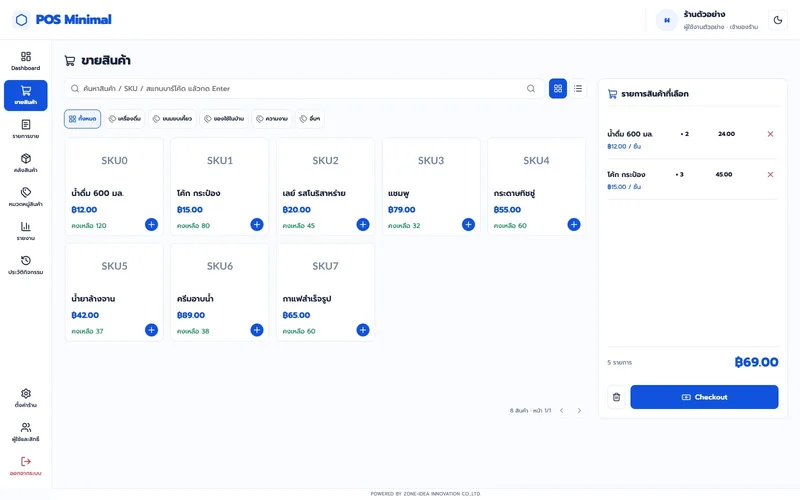
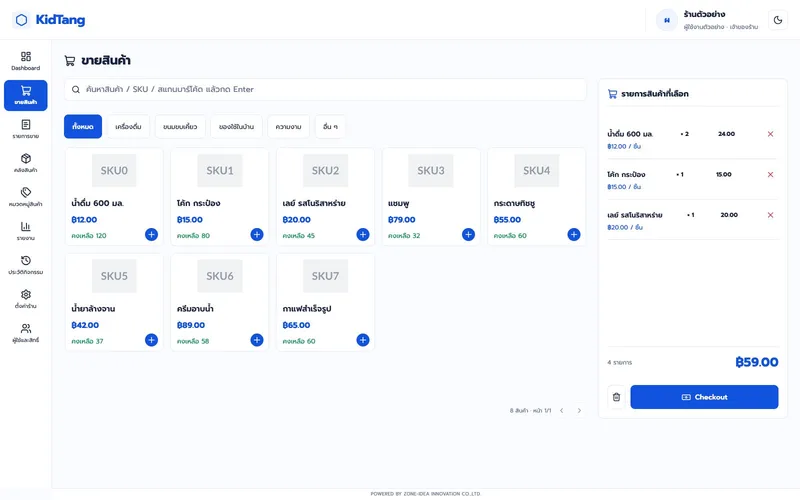
feat(branding): rename application and SEO metadata to KidTang

diff --git a/apps/web/src/features/printing/PrinterSettings.tsx b/apps/web/src/features/printing/PrinterSettings.tsx
@@ -8,5 +8,5 @@ import {agentDownloads,agentPrinters,agentPrint,pairPrinter,printerProfile,saveP
 export function PrinterSettings(){
  const [profile,setProfile]=useState(printerProfile),[code,setCode]=useState(''),[printers,setPrinters]=useState<Awaited<ReturnType<typeof agentPrinters>>>([]),[printer,setPrinter]=useState(profile?.printer??''),[width,setWidth]=useState<58|80>(profile?.width??80),[busy,setBusy]=useState(false),[message,setMessage]=useActionSuccess(),[error,setError]=useActionError();
  const run=async(action:()=>Promise<void>)=>{setBusy(true);setError('');setMessage('');try{await action();}catch(e){setError(e instanceof Error?e.message:'ดำเนินการไม่สำเร็จ');}finally{setBusy(false);}};
- return <section className="printer-settings" aria-labelledby="printer-settings-title"><h2 id="printer-settings-title"><Printer size={22}/>ตั้งค่าเครื่องพิมพ์</h2><p className="hint">ติดตั้ง Agent บนเครื่องนี้ แล้วเปิดโปรแกรมเพื่อดูรหัสจับคู่ · การตั้งค่านี้ใช้เฉพาะ Browser นี้</p><div className="printer-downloads">{agentDownloads.map(item=><a className="secondary" key={item.file} href={item.url}><Download size={18}/>{item.label}</a>)}</div><p className="hint">ไฟล์ติดตั้งรุ่นทดสอบยังไม่ได้เซ็นรับรองจากผู้พัฒนา · ต้องติดตั้งไดรเวอร์เครื่องพิมพ์ก่อน</p>{error?<Notice>{error}</Notice>:null}{message?<Notice success>{message}</Notice>:null}<p role="status">{profile?'จับคู่แล้ว · กดตรวจสอบเพื่อดูเครื่องพิมพ์ที่พร้อมใช้':'ยังไม่ได้จับคู่ Print Agent'}</p><div className="printer-controls"><label className="field"><span>รหัสจับคู่ 6 หลัก</span><div className="input-wrap"><input aria-label="รหัสจับคู่ 6 หลัก" inputMode="numeric" maxLength={6} value={code} onChange={e=>setCode(e.target.value.replace(/\D/g,''))}/></div></label><button className="secondary" disabled={busy||code.length!==6} onClick={()=>run(async()=>{const {token}=await pairPrinter(code),next={token,printer:'',width};savePrinterProfile(next);setProfile(next);setPrinter('');setCode('');setPrinters(await agentPrinters(token));setMessage('จับคู่ Agent สำเร็จ');})}><Link size={18}/>จับคู่ Agent</button><button className="secondary" disabled={busy||!profile} onClick={()=>run(async()=>{setPrinters(await agentPrinters(profile!.token));setMessage('Agent พร้อมเชื่อมต่อ');})}>ตรวจสอบการเชื่อมต่อ</button></div><div className="printer-controls"><label className="field"><span>เครื่องพิมพ์</span><div className="input-wrap"><select aria-label="เครื่องพิมพ์" value={printer} onChange={e=>setPrinter(e.target.value)}><option value="">ใช้เครื่อง default ของระบบ</option>{printer&&!printers.some(p=>p.name===printer)?<option value={printer}>{printer} (ยังไม่ตรวจสอบ)</option>:null}{printers.map(p=><option key={p.name} value={p.name}>{p.displayName||p.name}{p.isDefault?' · default':''}</option>)}</select></div></label><label className="field"><span>ขนาดกระดาษ</span><div className="input-wrap"><select aria-label="ขนาดกระดาษ" value={width} onChange={e=>setWidth(Number(e.target.value) as 58|80)}><option value={58}>58 มม.</option><option value={80}>80 มม.</option></select></div></label></div><div className="printer-controls"><button className="primary" disabled={busy||!profile} onClick={()=>run(async()=>{if(!await confirmAlert('ยืนยันเปลี่ยนการตั้งค่าเครื่องพิมพ์หรือไม่?'))return;const next={token:profile!.token,printer,width};savePrinterProfile(next);setProfile(next);setMessage('บันทึกเครื่องพิมพ์แล้ว');})}><Save size={18}/>บันทึกเครื่องพิมพ์</button><button className="secondary" disabled={busy||!profile} onClick={()=>run(async()=>{await agentPrint('<!doctype html><html lang="th"><head><meta charset="utf-8"><style>@page{size:80mm auto;margin:4mm}body{width:72mm;font:14px sans-serif}</style></head><body><h2>POS Minimal</h2><p>ทดสอบเครื่องพิมพ์</p><p>ภาษาไทย · 1234567890</p><p>ไม่ใช่ใบเสร็จการขาย</p></body></html>',{token:profile!.token,printer,width});setMessage('ส่งงานทดสอบเข้าคิวเครื่องพิมพ์แล้ว กรุณาตรวจใบพิมพ์');})}><Printer size={18}/>พิมพ์ทดสอบ</button><button className="secondary" disabled={busy||!profile} onClick={async()=>{if(!await confirmAlert('ยืนยันเลิกใช้ Print Agent บน Browser นี้หรือไม่?'))return;disconnectPrinter();setProfile(null);setPrinters([]);setMessage('ยกเลิกการจับคู่ใน Browser นี้แล้ว');}}><Unplug size={18}/>เลิกใช้ Agent</button></div></section>;
+ return <section className="printer-settings" aria-labelledby="printer-settings-title"><h2 id="printer-settings-title"><Printer size={22}/>ตั้งค่าเครื่องพิมพ์</h2><p className="hint">ติดตั้ง Agent บนเครื่องนี้ แล้วเปิดโปรแกรมเพื่อดูรหัสจับคู่ · การตั้งค่านี้ใช้เฉพาะ Browser นี้</p><div className="printer-downloads">{agentDownloads.map(item=><a className="secondary" key={item.file} href={item.url}><Download size={18}/>{item.label}</a>)}</div><p className="hint">ไฟล์ติดตั้งรุ่นทดสอบยังไม่ได้เซ็นรับรองจากผู้พัฒนา · ต้องติดตั้งไดรเวอร์เครื่องพิมพ์ก่อน</p>{error?<Notice>{error}</Notice>:null}{message?<Notice success>{message}</Notice>:null}<p role="status">{profile?'จับคู่แล้ว · กดตรวจสอบเพื่อดูเครื่องพิมพ์ที่พร้อมใช้':'ยังไม่ได้จับคู่ Print Agent'}</p><div className="printer-controls"><label className="field"><span>รหัสจับคู่ 6 หลัก</span><div className="input-wrap"><input aria-label="รหัสจับคู่ 6 หลัก" inputMode="numeric" maxLength={6} value={code} onChange={e=>setCode(e.target.value.replace(/\D/g,''))}/></div></label><button className="secondary" disabled={busy||code.length!==6} onClick={()=>run(async()=>{const {token}=await pairPrinter(code),next={token,printer:'',width};savePrinterProfile(next);setProfile(next);setPrinter('');setCode('');setPrinters(await agentPrinters(token));setMessage('จับคู่ Agent สำเร็จ');})}><Link size={18}/>จับคู่ Agent</button><button className="secondary" disabled={busy||!profile} onClick={()=>run(async()=>{setPrinters(await agentPrinters(profile!.token));setMessage('Agent พร้อมเชื่อมต่อ');})}>ตรวจสอบการเชื่อมต่อ</button></div><div className="printer-controls"><label className="field"><span>เครื่องพิมพ์</span><div className="input-wrap"><select aria-label="เครื่องพิมพ์" value={printer} onChange={e=>setPrinter(e.target.value)}><option value="">ใช้เครื่อง default ของระบบ</option>{printer&&!printers.some(p=>p.name===printer)?<option value={printer}>{printer} (ยังไม่ตรวจสอบ)</option>:null}{printers.map(p=><option key={p.name} value={p.name}>{p.displayName||p.name}{p.isDefault?' · default':''}</option>)}</select></div></label><label className="field"><span>ขนาดกระดาษ</span><div className="input-wrap"><select aria-label="ขนาดกระดาษ" value={width} onChange={e=>setWidth(Number(e.target.value) as 58|80)}><option value={58}>58 มม.</option><option value={80}>80 มม.</option></select></div></label></div><div className="printer-controls"><button className="primary" disabled={busy||!profile} onClick={()=>run(async()=>{if(!await confirmAlert('ยืนยันเปลี่ยนการตั้งค่าเครื่องพิมพ์หรือไม่?'))return;const next={token:profile!.token,printer,width};savePrinterProfile(next);setProfile(next);setMessage('บันทึกเครื่องพิมพ์แล้ว');})}><Save size={18}/>บันทึกเครื่องพิมพ์</button><button className="secondary" disabled={busy||!profile} onClick={()=>run(async()=>{await agentPrint('<!doctype html><html lang="th"><head><meta charset="utf-8"><style>@page{size:80mm auto;margin:4mm}body{width:72mm;font:14px sans-serif}</style></head><body><h2>KidTang</h2><p>ทดสอบเครื่องพิมพ์</p><p>ภาษาไทย · 1234567890</p><p>ไม่ใช่ใบเสร็จการขาย</p></body></html>',{token:profile!.token,printer,width});setMessage('ส่งงานทดสอบเข้าคิวเครื่องพิมพ์แล้ว กรุณาตรวจใบพิมพ์');})}><Printer size={18}/>พิมพ์ทดสอบ</button><button className="secondary" disabled={busy||!profile} onClick={async()=>{if(!await confirmAlert('ยืนยันเลิกใช้ Print Agent บน Browser นี้หรือไม่?'))return;disconnectPrinter();setProfile(null);setPrinters([]);setMessage('ยกเลิกการจับคู่ใน Browser นี้แล้ว');}}><Unplug size={18}/>เลิกใช้ Agent</button></div></section>;
 }

diff --git a/apps/api/src/modules/reports/export.ts b/apps/api/src/modules/reports/export.ts
@@ -2,7 +2,7 @@ import ExcelJS from 'exceljs';
 import { ApiError } from '../../infra/errors.js';
 import type { ReportData,ReportQuery } from './schema.js';
 export function excelText(value:string){return /^[\s]*[=+\-@]|^[\t\r\n]/.test(value)?`'${value}`:value;}
-export async function reportWorkbook(report:ReportData,query:ReportQuery){if(report.total>10000)throw new ApiError(422,'EXPORT_LIMIT_EXCEEDED','ส่งออกได้ไม่เกิน 10,000 รายการ กรุณาลดช่วงวันที่');const workbook=new ExcelJS.Workbook();workbook.creator='POS Minimal';const sheet=workbook.addWorksheet('Report');sheet.addRow(['POS Minimal',({sales:'รายงานยอดขาย',inventory:'รายงานคลังสินค้า','low-stock':'รายงานสินค้าใกล้หมด','stock-valuation':'รายงานมูลค่าสต็อก'})[report.type]]);sheet.addRow(report.type==='sales'?['เวลา','Asia/Bangkok','เริ่ม',query.from??'วันนี้','สิ้นสุด (รวมวัน)',query.to??'วันนี้','กลุ่ม',query.groupBy,'พนักงาน',query.cashierId??'ทั้งหมด']:['เวลา','Asia/Bangkok','ข้อมูลคลัง','ปัจจุบัน ณ เวลาส่งออก']);sheet.addRow(['ข้อมูลยอดขายใช้ Snapshot ณ เวลาขาย; มูลค่าสต็อกใช้ต้นทุนปัจจุบัน; ยอดเงินเป็นข้อความทศนิยมเพื่อรักษาความแม่นยำ']);sheet.addRow([]);sheet.addRow(['สรุป',...(report.type==='sales'?['ยอดก่อนส่วนลด (สำเร็จ)','ส่วนลด','ยอดสุทธิ (สำเร็จ)','VAT','บิลสำเร็จ','บิลยกเลิก','มูลค่าบิลยกเลิก']:['สินค้า','จำนวนคงเหลือ','มูลค่าสต็อก'])]);sheet.addRow(['รวม',...Object.values(report.summary)]);sheet.addRow([]);
+export async function reportWorkbook(report:ReportData,query:ReportQuery){if(report.total>10000)throw new ApiError(422,'EXPORT_LIMIT_EXCEEDED','ส่งออกได้ไม่เกิน 10,000 รายการ กรุณาลดช่วงวันที่');const workbook=new ExcelJS.Workbook();workbook.creator='KidTang';const sheet=workbook.addWorksheet('Report');sheet.addRow(['KidTang',({sales:'รายงานยอดขาย',inventory:'รายงานคลังสินค้า','low-stock':'รายงานสินค้าใกล้หมด','stock-valuation':'รายงานมูลค่าสต็อก'})[report.type]]);sheet.addRow(report.type==='sales'?['เวลา','Asia/Bangkok','เริ่ม',query.from??'วันนี้','สิ้นสุด (รวมวัน)',query.to??'วันนี้','กลุ่ม',query.groupBy,'พนักงาน',query.cashierId??'ทั้งหมด']:['เวลา','Asia/Bangkok','ข้อมูลคลัง','ปัจจุบัน ณ เวลาส่งออก']);sheet.addRow(['ข้อมูลยอดขายใช้ Snapshot ณ เวลาขาย; มูลค่าสต็อกใช้ต้นทุนปัจจุบัน; ยอดเงินเป็นข้อความทศนิยมเพื่อรักษาความแม่นยำ']);sheet.addRow([]);sheet.addRow(['สรุป',...(report.type==='sales'?['ยอดก่อนส่วนลด (สำเร็จ)','ส่วนลด','ยอดสุทธิ (สำเร็จ)','VAT','บิลสำเร็จ','บิลยกเลิก','มูลค่าบิลยกเลิก']:['สินค้า','จำนวนคงเหลือ','มูลค่าสต็อก'])]);sheet.addRow(['รวม',...Object.values(report.summary)]);sheet.addRow([]);
  const fields=report.type==='sales'?['period','gross','discount','net','vat','billCount','voidCount','voidAmount']:['barcode','name','quantity','unitCost','salePrice','valuation'];
  const headers=report.type==='sales'?['ช่วงเวลา','ยอดก่อนส่วนลด (สำเร็จ)','ส่วนลด (สำเร็จ)','ยอดสุทธิ (สำเร็จ)','VAT (สำเร็จ)','บิลสำเร็จ','บิลยกเลิก','มูลค่าบิลยกเลิก']:['บาร์โค้ด','สินค้า','จำนวน','ต้นทุนปัจจุบัน','ราคาขาย','มูลค่าสต็อก'];sheet.addRow(headers);
  for(const item of report.items){const row=item as unknown as Record<string,string|number>;sheet.addRow(fields.map(field=>typeof row[field]==='string'?excelText(row[field] as string):row[field]));}

diff --git a/apps/web/src/features/landing/content.ts b/apps/web/src/features/landing/content.ts
@@ -1,7 +1,7 @@
-export const landingTitle='POS Minimal | ระบบขายหน้าร้านฟรี จัดการสต็อก รับพร้อมเพย์';
-export const landingDescription='POS Minimal ระบบขายหน้าร้านใช้ฟรีทุกฟังก์ชัน แค่มีโน้ตบุ๊กหรือ PC เพิ่มสินค้าก็เริ่มขายได้ จัดการสต็อก ดูยอดขาย รับพร้อมเพย์พร้อมยืนยันการจ่ายจากธนาคาร';
+export const landingTitle='KidTang | ระบบ POS ฟรี ขายหน้าร้าน จัดการสต็อกและยอดขาย';
+export const landingDescription='KidTang ระบบ POS และขายหน้าร้านฟรี ใช้งานผ่านเว็บ จัดการสินค้าและสต็อก บันทึกการขาย ดูรายงานยอดขาย และจัดการพนักงานในระบบเดียว';
 export const siteUrl='https://pos-minimals.vercel.app/';
-export const shareImage=siteUrl+'images/pos-minimal-share.webp';
+export const shareImage=siteUrl+'images/kidtang-share.webp';
 export const withdrawalNotice='การแจ้งเบิกเงินในระบบยังไม่เปิดใช้งาน';
 export const faqItems=[
  {question:'ใช้งานฟรีอะไรบ้าง?',answer:'ใช้ฟังก์ชันของระบบขายหน้าร้านฟรี ทั้งการขาย จัดการสินค้าและสต็อก รายงานยอดขาย และจัดการพนักงาน การรับชำระพร้อมเพย์มีค่าธรรมเนียมแยกจากค่าใช้ระบบ'},
@@ -13,7 +13,7 @@ export const faqItems=[
 ];
 export const structuredData={
  '@context':'https://schema.org','@graph':[
-  {'@type':'WebSite','@id':siteUrl+'#website',name:'POS Minimal',url:siteUrl,inLanguage:'th'},
-  {'@type':'SoftwareApplication',name:'POS Minimal',url:siteUrl,applicationCategory:'BusinessApplication',operatingSystem:'Web',inLanguage:'th',image:shareImage,description:landingDescription+' ค่าใช้ระบบฟรี ค่ารับชำระพร้อมเพย์ 1.50% ต่อรายการ อัตราถอนเงิน 15 บาทต่อครั้ง การแจ้งเบิกเงินในระบบยังไม่เปิดใช้งาน',offers:{'@type':'Offer',price:'0',priceCurrency:'THB',description:'ค่าใช้งานระบบฟรีทุกฟังก์ชัน ค่าธรรมเนียมรับชำระและถอนเงินแยกต่างหาก; การแจ้งเบิกเงินในระบบยังไม่เปิดใช้งาน'}},
+  {'@type':'WebSite','@id':siteUrl+'#website',name:'KidTang',url:siteUrl,inLanguage:'th'},
+  {'@type':'SoftwareApplication',name:'KidTang',url:siteUrl,applicationCategory:'BusinessApplication',operatingSystem:'Web',inLanguage:'th',image:shareImage,description:landingDescription+' ค่าใช้ระบบฟรี ค่ารับชำระพร้อมเพย์ 1.50% ต่อรายการ อัตราถอนเงิน 15 บาทต่อครั้ง การแจ้งเบิกเงินในระบบยังไม่เปิดใช้งาน',offers:{'@type':'Offer',price:'0',priceCurrency:'THB',description:'ค่าใช้งานระบบฟรีทุกฟังก์ชัน ค่าธรรมเนียมรับชำระและถอนเงินแยกต่างหาก; การแจ้งเบิกเงินในระบบยังไม่เปิดใช้งาน'}},
  ],
 };

diff --git a/apps/web/src/features/auth/VerificationNotice.tsx b/apps/web/src/features/auth/VerificationNotice.tsx
@@ -7,5 +7,5 @@ import { Busy, Notice } from '../../components/Notice';
 export function VerificationNotice({ email }: { email: string }) {
  const [seconds,setSeconds]=useState(60),[busy,setBusy]=useState(false),[error,setError]=useActionError(),[resent,setResent]=useState(false);
  useEffect(()=>{if(seconds<=0)return;const timer=window.setTimeout(()=>setSeconds(v=>v-1),1000);return()=>clearTimeout(timer);},[seconds]);
- return <section className="verification" aria-labelledby="verification-title"><div className="verification-icon"><MailCheck size={32} aria-hidden="true"/></div><p className="verification-brand">POS Minimal</p><h2 id="verification-title">ตรวจสอบอีเมลของคุณ</h2><p>ส่งขั้นตอนยืนยันอีเมลไปที่</p><strong className="verification-email">{email}</strong><p>เปิดอีเมลจาก POS Minimal แล้วกดปุ่ม <strong>Confirm email</strong> เพื่อยืนยันบัญชีและสร้างร้านให้เสร็จ</p><div className="verification-tip"><ShieldCheck size={20} aria-hidden="true"/><span>หากไม่พบอีเมล ลองตรวจสอบโฟลเดอร์สแปมหรือจดหมายขยะ</span></div>{error?<Notice>{error}</Notice>:null}{resent?<Notice success>ขอส่งอีเมลยืนยันอีกครั้งแล้ว กรุณาตรวจสอบกล่องจดหมาย</Notice>:null}<button type="button" className="secondary retry" disabled={busy||seconds>0} onClick={async()=>{setBusy(true);setError('');setResent(false);try{const {error}=await auth.auth.resend({type:'signup',email,options:{emailRedirectTo:window.location.origin}});if(error)throw error;await successAlert('ส่งคำขอยืนยันอีเมลแล้ว');setResent(true);setSeconds(60);}catch(error){setError(authMessage(error));}finally{setBusy(false);}}}>{busy?<Busy/>:<Send size={18} aria-hidden="true"/>}{seconds>0?`ส่งอีเมลอีกครั้งใน ${seconds} วินาที`:'ส่งอีเมลยืนยันอีกครั้ง'}</button></section>;
+ return <section className="verification" aria-labelledby="verification-title"><div className="verification-icon"><MailCheck size={32} aria-hidden="true"/></div><p className="verification-brand">KidTang</p><h2 id="verification-title">ตรวจสอบอีเมลของคุณ</h2><p>ส่งขั้นตอนยืนยันอีเมลไปที่</p><strong className="verification-email">{email}</strong><p>เปิดอีเมลจาก KidTang แล้วกดปุ่ม <strong>Confirm email</strong> เพื่อยืนยันบัญชีและสร้างร้านให้เสร็จ</p><div className="verification-tip"><ShieldCheck size={20} aria-hidden="true"/><span>หากไม่พบอีเมล ลองตรวจสอบโฟลเดอร์สแปมหรือจดหมายขยะ</span></div>{error?<Notice>{error}</Notice>:null}{resent?<Notice success>ขอส่งอีเมลยืนยันอีกครั้งแล้ว กรุณาตรวจสอบกล่องจดหมาย</Notice>:null}<button type="button" className="secondary retry" disabled={busy||seconds>0} onClick={async()=>{setBusy(true);setError('');setResent(false);try{const {error}=await auth.auth.resend({type:'signup',email,options:{emailRedirectTo:window.location.origin}});if(error)throw error;await successAlert('ส่งคำขอยืนยันอีเมลแล้ว');setResent(true);setSeconds(60);}catch(error){setError(authMessage(error));}finally{setBusy(false);}}}>{busy?<Busy/>:<Send size={18} aria-hidden="true"/>}{seconds>0?`ส่งอีเมลอีกครั้งใน ${seconds} วินาที`:'ส่งอีเมลยืนยันอีกครั้ง'}</button></section>;
 }

diff --git a/apps/web/src/features/landing/ProductTour.tsx b/apps/web/src/features/landing/ProductTour.tsx
@@ -1,2 +1,2 @@
 import {ProductScreenshot} from './ProductScreenshot';
-export function ProductTour(){return <section id="features" className="landing-tour" aria-labelledby="features-title"><div className="landing-container"><div className="landing-section-heading"><h2 id="features-title">เพิ่มสินค้า เลือกขาย รับเงินได้เลย</h2><p>หน้าขาย สินค้า และรายงานยอดขาย อยู่ในระบบเดียวกัน</p></div><ProductScreenshot large name="sales" alt="หน้าขาย POS Minimal แสดงรายการสินค้า ตะกร้า และยอดชำระ"/><article className="landing-tour-row"><div><h3>ดูสินค้าและ<br/><em>จำนวนคงเหลือได้ในที่เดียว</em></h3><p>เพิ่มสินค้า จัดหมวดหมู่ และปรับสต็อกให้ตรงกับหน้าร้าน ดูจำนวนก่อนและหลังปรับ พร้อมประวัติผู้ที่อัปเดต</p></div><ProductScreenshot name="inventory" alt="หน้าจัดการสินค้า POS Minimal แสดงสินค้าตัวอย่างและจำนวนคงเหลือ"/></article><article className="landing-tour-row landing-tour-reverse"><div><h3>ดูยอดขายและ<br/><em>สินค้าขายดีได้ง่าย ๆ</em></h3><p>เลือกช่วงวันที่เพื่อดูรายงานยอดขาย ดูสินค้าขายดีจากหน้าภาพรวม และนำรายงานออกเป็น Excel ได้</p></div><ProductScreenshot name="reports" alt="หน้ารายงาน POS Minimal แสดงรายงานยอดขายจากข้อมูลร้านตัวอย่าง"/></article></div></section>;}
+export function ProductTour(){return <section id="features" className="landing-tour" aria-labelledby="features-title"><div className="landing-container"><div className="landing-section-heading"><h2 id="features-title">เพิ่มสินค้า เลือกขาย รับเงินได้เลย</h2><p>หน้าขาย สินค้า และรายงานยอดขาย อยู่ในระบบเดียวกัน</p></div><ProductScreenshot large name="sales" alt="หน้าขาย KidTang แสดงรายการสินค้า ตะกร้า และยอดชำระ"/><article className="landing-tour-row"><div><h3>ดูสินค้าและ<br/><em>จำนวนคงเหลือได้ในที่เดียว</em></h3><p>เพิ่มสินค้า จัดหมวดหมู่ และปรับสต็อกให้ตรงกับหน้าร้าน ดูจำนวนก่อนและหลังปรับ พร้อมประวัติผู้ที่อัปเดต</p></div><ProductScreenshot name="inventory" alt="หน้าจัดการสินค้า KidTang แสดงสินค้าตัวอย่างและจำนวนคงเหลือ"/></article><article className="landing-tour-row landing-tour-reverse"><div><h3>ดูยอดขายและ<br/><em>สินค้าขายดีได้ง่าย ๆ</em></h3><p>เลือกช่วงวันที่เพื่อดูรายงานยอดขาย ดูสินค้าขายดีจากหน้าภาพรวม และนำรายงานออกเป็น Excel ได้</p></div><ProductScreenshot name="reports" alt="หน้ารายงาน KidTang แสดงรายงานยอดขายจากข้อมูลร้านตัวอย่าง"/></article></div></section>;}

diff --git a/supabase/templates/reset-password.html b/supabase/templates/reset-password.html
@@ -1,12 +1,12 @@
 <!DOCTYPE html>
-<html lang="th"><head><meta charset="utf-8"><meta name="viewport" content="width=device-width,initial-scale=1"><title>ตั้งรหัสผ่านใหม่ — POS Minimal</title></head>
+<html lang="th"><head><meta charset="utf-8"><meta name="viewport" content="width=device-width,initial-scale=1"><title>ตั้งรหัสผ่านใหม่ — KidTang</title></head>
 <body style="margin:0;padding:0;background:#f3f6f4;font-family:Arial,Tahoma,sans-serif;color:#182521;">
 <table role="presentation" width="100%" cellpadding="0" cellspacing="0" style="background:#f3f6f4;"><tr><td align="center" style="padding:40px 20px;">
 <table role="presentation" width="100%" cellpadding="0" cellspacing="0" style="max-width:520px;background:#ffffff;border:1px solid #e1e8e3;border-radius:16px;">
-<tr><td style="padding:32px 32px 24px;border-bottom:1px solid #e1e8e3;"><p style="margin:0;font-size:22px;font-weight:bold;color:#17785d;">POS Minimal</p><p style="margin:8px 0 0;font-size:14px;color:#6b7772;">จัดการร้านของคุณได้ในที่เดียว</p></td></tr>
-<tr><td style="padding:32px;"><h1 style="margin:0 0 16px;font-size:26px;line-height:1.5;">ตั้งรหัสผ่านใหม่ของคุณ</h1><p style="margin:0 0 24px;font-size:16px;line-height:1.8;color:#52645a;">เราได้รับคำขอตั้งรหัสผ่านใหม่สำหรับบัญชี POS Minimal ของคุณ กดปุ่มด้านล่างเพื่อดำเนินการ</p>
+<tr><td style="padding:32px 32px 24px;border-bottom:1px solid #e1e8e3;"><p style="margin:0;font-size:22px;font-weight:bold;color:#17785d;">KidTang</p><p style="margin:8px 0 0;font-size:14px;color:#6b7772;">จัดการร้านของคุณได้ในที่เดียว</p></td></tr>
+<tr><td style="padding:32px;"><h1 style="margin:0 0 16px;font-size:26px;line-height:1.5;">ตั้งรหัสผ่านใหม่ของคุณ</h1><p style="margin:0 0 24px;font-size:16px;line-height:1.8;color:#52645a;">เราได้รับคำขอตั้งรหัสผ่านใหม่สำหรับบัญชี KidTang ของคุณ กดปุ่มด้านล่างเพื่อดำเนินการ</p>
 <table role="presentation" cellpadding="0" cellspacing="0"><tr><td bgcolor="#17785d" style="border-radius:8px;text-align:center;"><a href="{{ .ConfirmationURL }}" target="_blank" style="display:inline-block;padding:16px 32px;border:1px solid #17785d;border-radius:8px;background:#17785d;color:#ffffff;text-decoration:none;font-size:16px;font-weight:bold;line-height:24px;">Reset password</a></td></tr></table>
 <p style="margin:24px 0 8px;font-size:13px;line-height:1.7;color:#6b7772;">หากปุ่มเปิดไม่ได้ คัดลอกลิงก์นี้ไปวางในเบราว์เซอร์:</p><p style="margin:0;font-size:12px;line-height:1.7;word-break:break-all;"><a href="{{ .ConfirmationURL }}" style="color:#17785d;text-decoration:underline;">{{ .ConfirmationURL }}</a></p>
 <p style="margin:24px 0 0;font-size:13px;line-height:1.7;color:#6b7772;">หากคุณไม่ได้ขอตั้งรหัสผ่านใหม่ สามารถละเว้นอีเมลฉบับนี้ได้</p></td></tr>
-<tr><td style="padding:20px 32px;border-top:1px solid #e1e8e3;font-size:12px;color:#6b7772;">POS Minimal · ระบบจัดการร้านค้า</td></tr>
+<tr><td style="padding:20px 32px;border-top:1px solid #e1e8e3;font-size:12px;color:#6b7772;">KidTang · ระบบจัดการร้านค้า</td></tr>
 </table></td></tr></table></body></html>

diff --git a/supabase/templates/confirm-signup.html b/supabase/templates/confirm-signup.html
@@ -1,12 +1,12 @@
 <!DOCTYPE html>
-<html lang="th"><head><meta charset="utf-8"><meta name="viewport" content="width=device-width,initial-scale=1"><title>ยืนยันอีเมล — POS Minimal</title></head>
+<html lang="th"><head><meta charset="utf-8"><meta name="viewport" content="width=device-width,initial-scale=1"><title>ยืนยันอีเมล — KidTang</title></head>
 <body style="margin:0;padding:0;background:#f3f6f4;font-family:Arial,Tahoma,sans-serif;color:#182521;">
 <table role="presentation" width="100%" cellpadding="0" cellspacing="0" style="background:#f3f6f4;"><tr><td align="center" style="padding:40px 20px;">
 <table role="presentation" width="100%" cellpadding="0" cellspacing="0" style="max-width:520px;background:#ffffff;border:1px solid #e1e8e3;border-radius:16px;">
-<tr><td style="padding:32px 32px 24px;border-bottom:1px solid #e1e8e3;"><p style="margin:0;font-size:22px;font-weight:bold;color:#17785d;">POS Minimal</p><p style="margin:8px 0 0;font-size:14px;color:#6b7772;">จัดการร้านของคุณได้ในที่เดียว</p></td></tr>
-<tr><td style="padding:32px;"><h1 style="margin:0 0 16px;font-size:26px;line-height:1.5;">ยืนยันอีเมลของคุณ</h1><p style="margin:0 0 24px;font-size:16px;line-height:1.8;color:#52645a;">ขอบคุณที่สมัคร POS Minimal กดปุ่มด้านล่างเพื่อยืนยันอีเมล แล้วตั้งค่าร้านของคุณให้เสร็จ</p>
+<tr><td style="padding:32px 32px 24px;border-bottom:1px solid #e1e8e3;"><p style="margin:0;font-size:22px;font-weight:bold;color:#17785d;">KidTang</p><p style="margin:8px 0 0;font-size:14px;color:#6b7772;">จัดการร้านของคุณได้ในที่เดียว</p></td></tr>
+<tr><td style="padding:32px;"><h1 style="margin:0 0 16px;font-size:26px;line-height:1.5;">ยืนยันอีเมลของคุณ</h1><p style="margin:0 0 24px;font-size:16px;line-height:1.8;color:#52645a;">ขอบคุณที่สมัคร KidTang กดปุ่มด้านล่างเพื่อยืนยันอีเมล แล้วตั้งค่าร้านของคุณให้เสร็จ</p>
 <table role="presentation" cellpadding="0" cellspacing="0"><tr><td bgcolor="#17785d" style="border-radius:8px;text-align:center;"><a href="{{ .ConfirmationURL }}" target="_blank" style="display:inline-block;padding:16px 32px;border:1px solid #17785d;border-radius:8px;background:#17785d;color:#ffffff;text-decoration:none;font-size:16px;font-weight:bold;line-height:24px;">Confirm email</a></td></tr></table>
 <p style="margin:24px 0 8px;font-size:13px;line-height:1.7;color:#6b7772;">หากปุ่มเปิดไม่ได้ คัดลอกลิงก์นี้ไปวางในเบราว์เซอร์:</p><p style="margin:0;font-size:12px;line-height:1.7;word-break:break-all;"><a href="{{ .ConfirmationURL }}" style="color:#17785d;text-decoration:underline;">{{ .ConfirmationURL }}</a></p>
 <p style="margin:24px 0 0;font-size:13px;line-height:1.7;color:#6b7772;">หากคุณไม่ได้สมัครบัญชีนี้ สามารถละเว้นอีเมลฉบับนี้ได้</p></td></tr>
-<tr><td style="padding:20px 32px;border-top:1px solid #e1e8e3;font-size:12px;color:#6b7772;">POS Minimal · ระบบจัดการร้านค้า</td></tr>
+<tr><td style="padding:20px 32px;border-top:1px solid #e1e8e3;font-size:12px;color:#6b7772;">KidTang · ระบบจัดการร้านค้า</td></tr>
 </table></td></tr></table></body></html>

diff --git a/scripts/prerender-web.ts b/scripts/prerender-web.ts
@@ -13,8 +13,8 @@ try{
  const verification=process.env.GOOGLE_SITE_VERIFICATION?.trim();
  const escape=(v:string)=>v.replaceAll('&','&amp;').replaceAll('"','&quot;').replaceAll('<','&lt;');
  const head=(path:string)=>{
-  const home=path==='/',title=home?landingTitle:'POS Minimal | ระบบจัดการร้าน',description=home?landingDescription:'พื้นที่ใช้งาน POS Minimal สำหรับผู้ใช้ที่เข้าสู่ระบบ',canonical=new URL(path,siteUrl).href;
-  return `<title>${escape(title)}</title><meta name="description" content="${escape(description)}"><meta name="application-name" content="POS Minimal"><meta name="robots" content="${home?'index, follow':'noindex, nofollow'}"><link rel="canonical" href="${canonical}"><meta property="og:type" content="website"><meta property="og:locale" content="th_TH"><meta property="og:site_name" content="POS Minimal"><meta property="og:url" content="${canonical}"><meta property="og:title" content="${escape(title)}"><meta property="og:description" content="${escape(description)}"><meta property="og:image" content="${shareImage}"><meta property="og:image:width" content="1200"><meta property="og:image:height" content="630"><meta property="og:image:alt" content="POS Minimal ใช้ฟรีทุกฟังก์ชัน พร้อมภาพหน้าขายข้อมูลร้านตัวอย่าง"><meta name="twitter:card" content="summary_large_image"><meta name="twitter:title" content="${escape(title)}"><meta name="twitter:description" content="${escape(description)}"><meta name="twitter:image" content="${shareImage}">${home?`<script id="landing-structured-data" type="application/ld+json">${JSON.stringify(structuredData).replaceAll('<','\\u003c')}</script>`:''}`;
+  const home=path==='/',title=home?landingTitle:'KidTang | ระบบจัดการร้าน',description=home?landingDescription:'พื้นที่ใช้งาน KidTang สำหรับผู้ใช้ที่เข้าสู่ระบบ',canonical=new URL(path,siteUrl).href;
+  return `<title>${escape(title)}</title><meta name="description" content="${escape(description)}"><meta name="application-name" content="KidTang"><meta name="robots" content="${home?'index, follow':'noindex, nofollow'}"><link rel="canonical" href="${canonical}"><meta property="og:type" content="website"><meta property="og:locale" content="th_TH"><meta property="og:site_name" content="KidTang"><meta property="og:url" content="${canonical}"><meta property="og:title" content="${escape(title)}"><meta property="og:description" content="${escape(description)}"><meta property="og:image" content="${shareImage}"><meta property="og:image:width" content="1200"><meta property="og:image:height" content="630"><meta property="og:image:alt" content="KidTang ใช้ฟรีทุกฟังก์ชัน พร้อมภาพหน้าขายข้อมูลร้านตัวอย่าง"><meta name="twitter:card" content="summary_large_image"><meta name="twitter:title" content="${escape(title)}"><meta name="twitter:description" content="${escape(description)}"><meta name="twitter:image" content="${shareImage}">${home?`<script id="landing-structured-data" type="application/ld+json">${JSON.stringify(structuredData).replaceAll('<','\\u003c')}</script>`:''}`;
  };
  const page=(path:string,html='')=>template.replace('<!-- page-metadata -->',head(path)+(path==='/'?fontHints+(verification?`<meta name="google-site-verification" content="${escape(verification)}">`:''):'')).replace('<div id="root"></div>',`<div id="root">${html}</div>`);
  await writeFile(join(dist,'index.html'),page('/',renderLanding()));

diff --git a/apps/api/src/modules/imports/workbook.ts b/apps/api/src/modules/imports/workbook.ts
@@ -42,4 +42,4 @@ export async function parseWorkbook(bytes:Buffer){
  });
  if(!rows.length&&!errors.length)throw new ApiError(422,'EMPTY_WORKBOOK','ไฟล์ไม่มีรายการสินค้า');return {rows,errors};
 }
-export async function templateWorkbook(){const book=new ExcelJS.Workbook(),sheet=book.addWorksheet('Products');sheet.addRow(headers);sheet.getRow(1).font={bold:true,color:{argb:'FFFFFFFF'}};sheet.getRow(1).fill={type:'pattern',pattern:'solid',fgColor:{argb:'FF5638EF'}};sheet.columns.forEach((c,i)=>{c.width=i===1?32:22;c.numFmt=i===0?'@':i>=3&&i<=4?'0.00':'General';});sheet.views=[{state:'frozen',ySplit:1}];const help=book.addWorksheet('Instructions');help.addRow(['POS Minimal — นำเข้าสินค้าใหม่เท่านั้น']);help.addRow(['กรอกชีต Products: barcode เป็น Text เพื่อรักษาเลข 0 นำหน้า ห้ามใช้สูตร']);help.addRow(['category ใช้ชื่อหมวดหมู่ที่มีอยู่ หรือเว้นว่าง; ราคา/ต้นทุน >=0 ทศนิยมไม่เกิน 2 ตำแหน่ง']);help.addRow(['quantity เป็นจำนวนเต็ม >=0; สูงสุด 1,000 รายการ; ไม่เกิน 5 MB']);help.addRow(['ไม่รองรับรูปสินค้า และไม่แก้ไขสินค้าที่มี barcode อยู่แล้ว']);help.getColumn(1).width=110;return Buffer.from(await book.xlsx.writeBuffer());}
+export async function templateWorkbook(){const book=new ExcelJS.Workbook(),sheet=book.addWorksheet('Products');sheet.addRow(headers);sheet.getRow(1).font={bold:true,color:{argb:'FFFFFFFF'}};sheet.getRow(1).fill={type:'pattern',pattern:'solid',fgColor:{argb:'FF5638EF'}};sheet.columns.forEach((c,i)=>{c.width=i===1?32:22;c.numFmt=i===0?'@':i>=3&&i<=4?'0.00':'General';});sheet.views=[{state:'frozen',ySplit:1}];const help=book.addWorksheet('Instructions');help.addRow(['KidTang — นำเข้าสินค้าใหม่เท่านั้น']);help.addRow(['กรอกชีต Products: barcode เป็น Text เพื่อรักษาเลข 0 นำหน้า ห้ามใช้สูตร']);help.addRow(['category ใช้ชื่อหมวดหมู่ที่มีอยู่ หรือเว้นว่าง; ราคา/ต้นทุน >=0 ทศนิยมไม่เกิน 2 ตำแหน่ง']);help.addRow(['quantity เป็นจำนวนเต็ม >=0; สูงสุด 1,000 รายการ; ไม่เกิน 5 MB']);help.addRow(['ไม่รองรับรูปสินค้า และไม่แก้ไขสินค้าที่มี barcode อยู่แล้ว']);help.getColumn(1).width=110;return Buffer.from(await book.xlsx.writeBuffer());}

diff --git a/apps/web/src/features/auth/RecoveryPage.tsx b/apps/web/src/features/auth/RecoveryPage.tsx
@@ -6,5 +6,5 @@ import { ForgotPasswordForm } from './ForgotPasswordForm';
 import { ResetPasswordForm } from './ResetPasswordForm';
 export function RecoveryPage({ reset, session, loading, invalid }: { reset: boolean; session: Session|null; loading: boolean; invalid: boolean }) {
  const [complete,setComplete]=useState(false);
- return <main><div className="verification-icon"><KeyRound size={30} aria-hidden="true"/></div><h1>{reset?'ตั้งรหัสผ่านใหม่':'ลืมรหัสผ่าน'}</h1><p className="subtitle">{reset?'สร้างรหัสผ่านใหม่สำหรับบัญชี POS Minimal':'รับลิงก์ตั้งรหัสผ่านใหม่ทางอีเมล'}</p>{complete?<Notice success>ตั้งรหัสผ่านใหม่สำเร็จแล้ว กลับไปเข้าสู่ระบบด้วยรหัสผ่านใหม่ได้เลย</Notice>:loading?<div className="loading" role="status"><Busy/>กำลังตรวจสอบลิงก์</div>:reset?(session&&!invalid?<ResetPasswordForm onComplete={()=>setComplete(true)}/>:<><Notice>ลิงก์ไม่ถูกต้องหรือหมดอายุ กรุณาขอลิงก์ตั้งรหัสผ่านใหม่</Notice><a className="primary" href="/forgot-password">ขอลิงก์ใหม่</a></>):<ForgotPasswordForm/>}<a className="secondary signout" href="/"><ArrowLeft size={18} aria-hidden="true"/>กลับไปเข้าสู่ระบบ</a></main>;
+ return <main><div className="verification-icon"><KeyRound size={30} aria-hidden="true"/></div><h1>{reset?'ตั้งรหัสผ่านใหม่':'ลืมรหัสผ่าน'}</h1><p className="subtitle">{reset?'สร้างรหัสผ่านใหม่สำหรับบัญชี KidTang':'รับลิงก์ตั้งรหัสผ่านใหม่ทางอีเมล'}</p>{complete?<Notice success>ตั้งรหัสผ่านใหม่สำเร็จแล้ว กลับไปเข้าสู่ระบบด้วยรหัสผ่านใหม่ได้เลย</Notice>:loading?<div className="loading" role="status"><Busy/>กำลังตรวจสอบลิงก์</div>:reset?(session&&!invalid?<ResetPasswordForm onComplete={()=>setComplete(true)}/>:<><Notice>ลิงก์ไม่ถูกต้องหรือหมดอายุ กรุณาขอลิงก์ตั้งรหัสผ่านใหม่</Notice><a className="primary" href="/forgot-password">ขอลิงก์ใหม่</a></>):<ForgotPasswordForm/>}<a className="secondary signout" href="/"><ArrowLeft size={18} aria-hidden="true"/>กลับไปเข้าสู่ระบบ</a></main>;
 }

diff --git a/apps/web/src/features/landing/metadata.ts b/apps/web/src/features/landing/metadata.ts
@@ -1,12 +1,14 @@
 import {landingTitle,landingDescription,siteUrl,shareImage,structuredData} from './content';
 export function applyPageMetadata(path:string){
  const home=path==='/',canonical=new URL(path,siteUrl).href;
- document.title=home?landingTitle:'POS Minimal | ระบบจัดการร้าน';
+ document.title=home?landingTitle:'KidTang | ระบบจัดการร้าน';
  const set=(selector:string,value:string)=>{let node=document.head.querySelector<HTMLMetaElement>(selector);if(!node){node=document.createElement('meta');const property=selector.match(/(?:name|property)="([^"]+)"/)?.[1];node.setAttribute(selector.includes('property=')?'property':'name',property??'');document.head.append(node);}node.content=value;};
+ set('meta[name="application-name"]','KidTang');
+ set('meta[property="og:site_name"]','KidTang');
  set('meta[name="robots"]',home?'index, follow':'noindex, nofollow');
- set('meta[name="description"]',home?landingDescription:'พื้นที่ใช้งาน POS Minimal สำหรับผู้ใช้ที่เข้าสู่ระบบ');
- for(const [key,value] of Object.entries({'og:title':home?landingTitle:document.title,'og:description':home?landingDescription:'พื้นที่ใช้งาน POS Minimal','og:url':canonical,'og:image':shareImage}))set(`meta[property="${key}"]`,value);
- for(const [key,value] of Object.entries({'twitter:title':home?landingTitle:document.title,'twitter:description':home?landingDescription:'พื้นที่ใช้งาน POS Minimal','twitter:image':shareImage}))set(`meta[name="${key}"]`,value);
+ set('meta[name="description"]',home?landingDescription:'พื้นที่ใช้งาน KidTang สำหรับผู้ใช้ที่เข้าสู่ระบบ');
+ for(const [key,value] of Object.entries({'og:title':home?landingTitle:document.title,'og:description':home?landingDescription:'พื้นที่ใช้งาน KidTang','og:url':canonical,'og:image':shareImage}))set(`meta[property="${key}"]`,value);
+ for(const [key,value] of Object.entries({'twitter:title':home?landingTitle:document.title,'twitter:description':home?landingDescription:'พื้นที่ใช้งาน KidTang','twitter:image':shareImage}))set(`meta[name="${key}"]`,value);
  let link=document.head.querySelector<HTMLLinkElement>('link[rel="canonical"]');if(!link){link=document.createElement('link');link.rel='canonical';document.head.append(link);}link.href=canonical;
  let json=document.getElementById('landing-structured-data');if(home){if(!json){json=document.createElement('script');json.id='landing-structured-data';json.setAttribute('type','application/ld+json');document.head.append(json);}json.textContent=JSON.stringify(structuredData);}else json?.remove();
 }

diff --git a/apps/print-agent/src/index.html b/apps/print-agent/src/index.html
@@ -1,1 +1,1 @@
-<!doctype html><html lang="th"><head><meta charset="utf-8"><meta http-equiv="Content-Security-Policy" content="default-src 'self';script-src 'self';style-src 'unsafe-inline';connect-src 'none'"><title>POS Print Agent</title><style>body{font:15px Tahoma,sans-serif;margin:28px;color:#192748;background:#fafcff}h1{font-size:22px;color:#005bea}strong{display:block;font:32px monospace;letter-spacing:8px;padding:14px 0}button{margin:18px 0;padding:8px 12px}p{font-size:13px}</style></head><body><h1>POS Print Agent</h1><p>ใส่รหัสนี้ที่หน้าตั้งค่าเครื่องพิมพ์ใน POS</p><strong id="code"></strong><label><input id="autostart" type="checkbox">เปิดอัตโนมัติเมื่อเข้าสู่เครื่อง</label><br><button id="reset">ยกเลิกการจับคู่ทั้งหมด / สร้างรหัสใหม่</button><p id="status">พร้อมเชื่อมต่อกับ POS บนเครื่องนี้</p><script src="renderer.js"></script></body></html>
+<!doctype html><html lang="th"><head><meta charset="utf-8"><meta http-equiv="Content-Security-Policy" content="default-src 'self';script-src 'self';style-src 'unsafe-inline';connect-src 'none'"><title>KidTang Print Agent</title><style>body{font:15px Tahoma,sans-serif;margin:28px;color:#192748;background:#fafcff}h1{font-size:22px;color:#005bea}strong{display:block;font:32px monospace;letter-spacing:8px;padding:14px 0}button{margin:18px 0;padding:8px 12px}p{font-size:13px}</style></head><body><h1>KidTang Print Agent</h1><p>ใส่รหัสนี้ที่หน้าตั้งค่าเครื่องพิมพ์ใน POS</p><strong id="code"></strong><label><input id="autostart" type="checkbox">เปิดอัตโนมัติเมื่อเข้าสู่เครื่อง</label><br><button id="reset">ยกเลิกการจับคู่ทั้งหมด / สร้างรหัสใหม่</button><p id="status">พร้อมเชื่อมต่อกับ POS บนเครื่องนี้</p><script src="renderer.js"></script></body></html>
